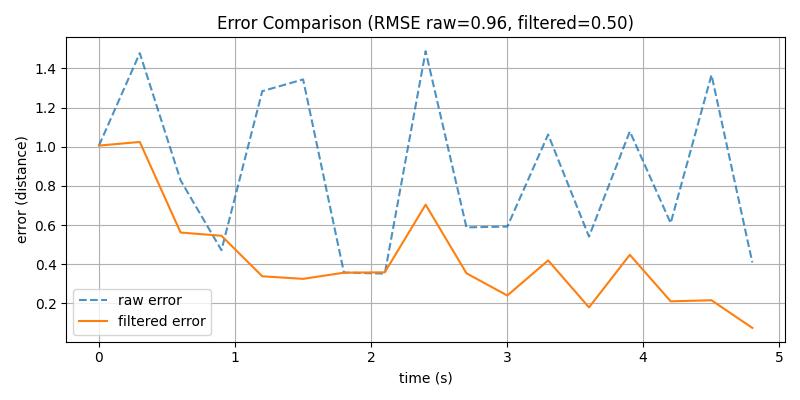
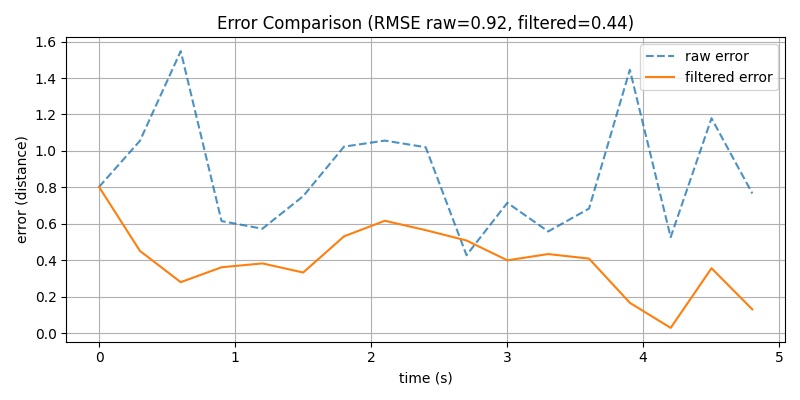
add alpha sweep and RMSE visualization

diff --git a/scripts/plot_alpha_sweep.py b/scripts/plot_alpha_sweep.py
@@ -1,0 +1,65 @@
+import pandas as pd
+import matplotlib.pyplot as plt
+import glob
+import os
+
+BASE_DIR = os.path.dirname(os.path.dirname(os.path.abspath(__file__)))
+data_dir = os.path.join(BASE_DIR, "data")
+
+files = sorted(glob.glob(os.path.join(data_dir, "analysis_alpha_*.csv")))
+
+alphas = []
+rmses = []
+
+for f in files:
+    df = pd.read_csv(f)
+
+    # ファイル名からalpha抽出
+    alpha = float(os.path.basename(f).split("_")[-1].replace(".csv", ""))
+
+    rmse = df["rmse_filtered"].iloc[0]
+
+    alphas.append(alpha)
+    rmses.append(rmse)
+
+# =========================
+# 最適alpha算出
+# =========================
+best_idx = rmses.index(min(rmses))
+best_alpha = alphas[best_idx]
+best_rmse = rmses[best_idx]
+
+# =========================
+# プロット
+# =========================
+plt.figure()
+
+# best以外
+other_alphas = []
+other_rmses = []
+
+for a, r in zip(alphas, rmses):
+    if a != best_alpha:
+        other_alphas.append(a)
+        other_rmses.append(r)
+
+# 線（全部）
+plt.plot(alphas, rmses)
+
+# 通常点
+plt.scatter(other_alphas, other_rmses, label="others")
+
+# best点
+plt.scatter(best_alpha, best_rmse, s=150, label="best", zorder=3)
+
+plt.xlabel("alpha")
+plt.ylabel("RMSE")
+plt.title(f"Alpha vs RMSE (best={best_alpha})")
+plt.legend()
+plt.grid()
+
+output = os.path.join(data_dir, "alpha_vs_rmse.png")
+plt.savefig(output)
+plt.close()
+
+print(f"saved to {output}")

diff --git a/scripts/run_alpha_sweep.py b/scripts/run_alpha_sweep.py
@@ -1,0 +1,21 @@
+import os
+import subprocess
+import shutil
+
+alphas = [0.1, 0.3, 0.5, 0.7]
+
+for alpha in alphas:
+    print(f"Running alpha={alpha}")
+
+    subprocess.run([
+        "./build/main",
+        "--duration", "5",
+        "--interval", "300",
+        "--noise", "0.7",
+        "--alpha", str(alpha)
+    ])
+
+    subprocess.run(["python3", "scripts/analyze.py"])
+
+    shutil.copy("data/analysis.csv", f"data/analysis_alpha_{alpha}.csv")
+    shutil.copy("data/filtered.csv", f"data/filtered_alpha_{alpha}.csv")

diff --git a/src/components/processor.cpp b/src/components/processor.cpp
@@ -1,7 +1,7 @@
 #include "components/processor.h"
 
 Processor::Processor(SafeQueue<Position>& in, SafeQueue<Position>& out, const double alpha)
-    : input(in), output(out), alpha(alpha) {}
+    : input(in), output(out), alpha(alpha), is_first(true) {}
 
 void Processor::start() {
     worker = std::thread(&Processor::run, this);
@@ -14,9 +14,6 @@ void Processor::stop() {
         worker.join();
     }
 }
-
-bool is_first = true;
-Position prev;
 
 void Processor::run() {
     while (true) {

diff --git a/src/components/filtered_logger.cpp b/src/components/filtered_logger.cpp
@@ -17,7 +17,7 @@ void FilteredLogger::stop() {
 }
 
 void FilteredLogger::run() {
-    std::ofstream file("../data/filtered.csv");
+    std::ofstream file("data/filtered.csv");
     file << "timestamp,x,y\n";  // ヘッダー
 
     while (true) {

diff --git a/src/components/truth_logger.cpp b/src/components/truth_logger.cpp
@@ -13,7 +13,7 @@ void TruthLogger::stop() {
 }
 
 void TruthLogger::run() {
-    std::ofstream file("../data/truth.csv");
+    std::ofstream file("data/truth.csv");
     file << "timestamp,x,y\n";  // ヘッダー
 
     while (true) {

diff --git a/src/components/raw_logger.cpp b/src/components/raw_logger.cpp
@@ -13,7 +13,7 @@ void RawLogger::stop() {
 }
 
 void RawLogger::run() {
-    std::ofstream file("../data/raw.csv");
+    std::ofstream file("data/raw.csv");
     file << "timestamp,x,y\n";  // ヘッダー
 
     while (true) {

diff --git a/include/components/processor.h b/include/components/processor.h
@@ -19,4 +19,7 @@ private:
     SafeQueue<Position>& input;
     SafeQueue<Position>& output;
     double alpha;
+
+    bool is_first;
+    Position prev;
 };
